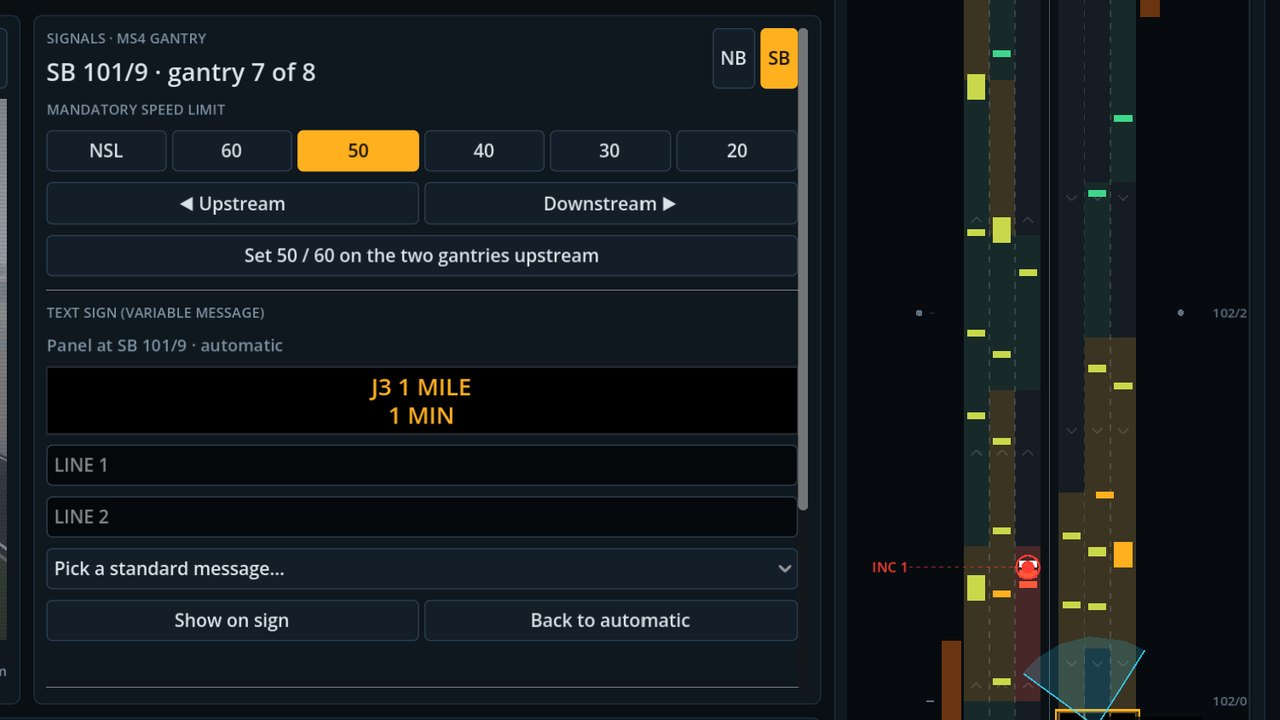
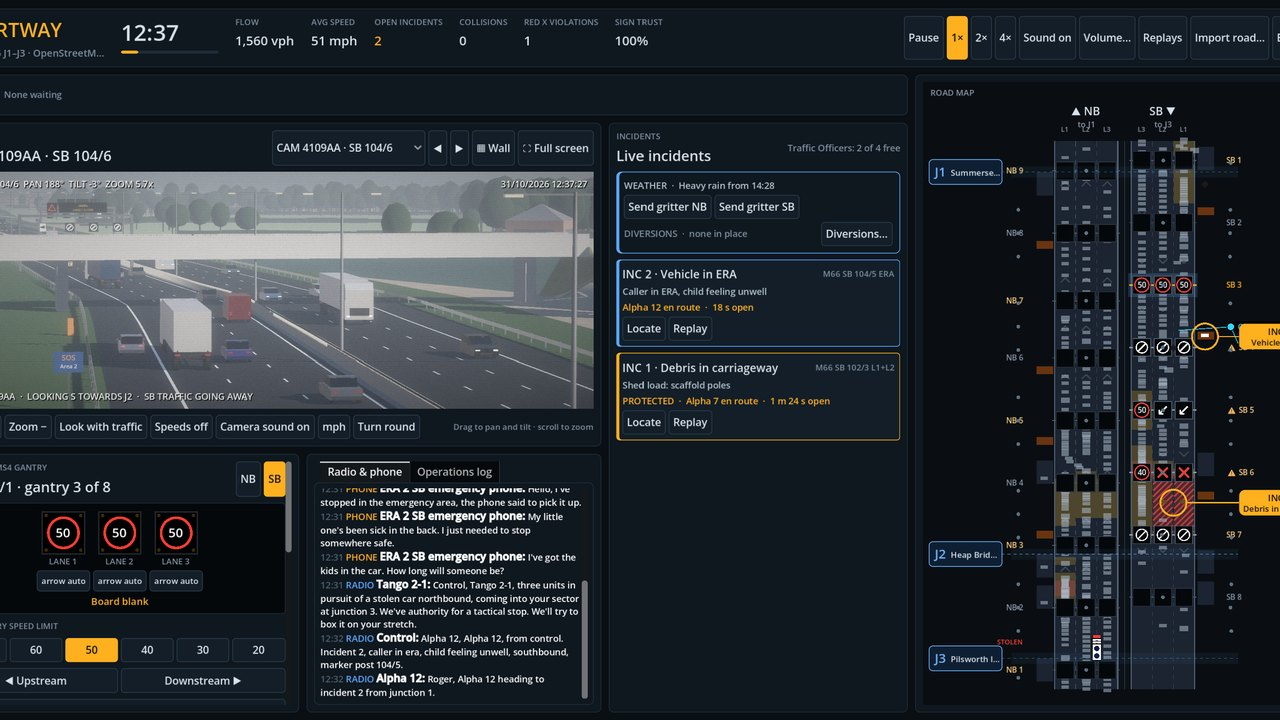
Use full current desk screenshot
Claude-Session: https://claude.ai/code/session_01E9XoDVsgJ79mnXHkQuLLVF

diff --git a/index.html b/index.html
@@ -42,7 +42,7 @@
   <h2>Screenshots</h2>
   <div class="shots">
     <figure class="shot"><a href="shots/full/cctv.jpg" class="zoom"><img src="shots/cctv.jpg" alt="CCTV camera view of traffic on the M66" loading="lazy"></a><figcaption>Pan, tilt and zoom the roadside CCTV</figcaption></figure>
-    <figure class="shot"><a href="shots/full/desk.jpg" class="zoom"><img src="shots/desk.jpg" alt="Control desk with gantry signals and the motorway map down the right" loading="lazy"></a><figcaption>Set signals and run incidents from the desk</figcaption></figure>
+    <figure class="shot"><a href="shots/full/desk.jpg" class="zoom"><img src="shots/desk.jpg" alt="Full control desk: CCTV, live incidents, gantry signals, radio log and the motorway map down the right" loading="lazy"></a><figcaption>Set signals and run incidents from the desk</figcaption></figure>
     <figure class="shot"><a href="shots/full/fog.jpg" class="zoom"><img src="shots/fog.jpg" alt="Thick fog under a gantry on the M66" loading="lazy"></a><figcaption>Fog, ice, rain and night shifts</figcaption></figure>
   </div>
 </div></section>
